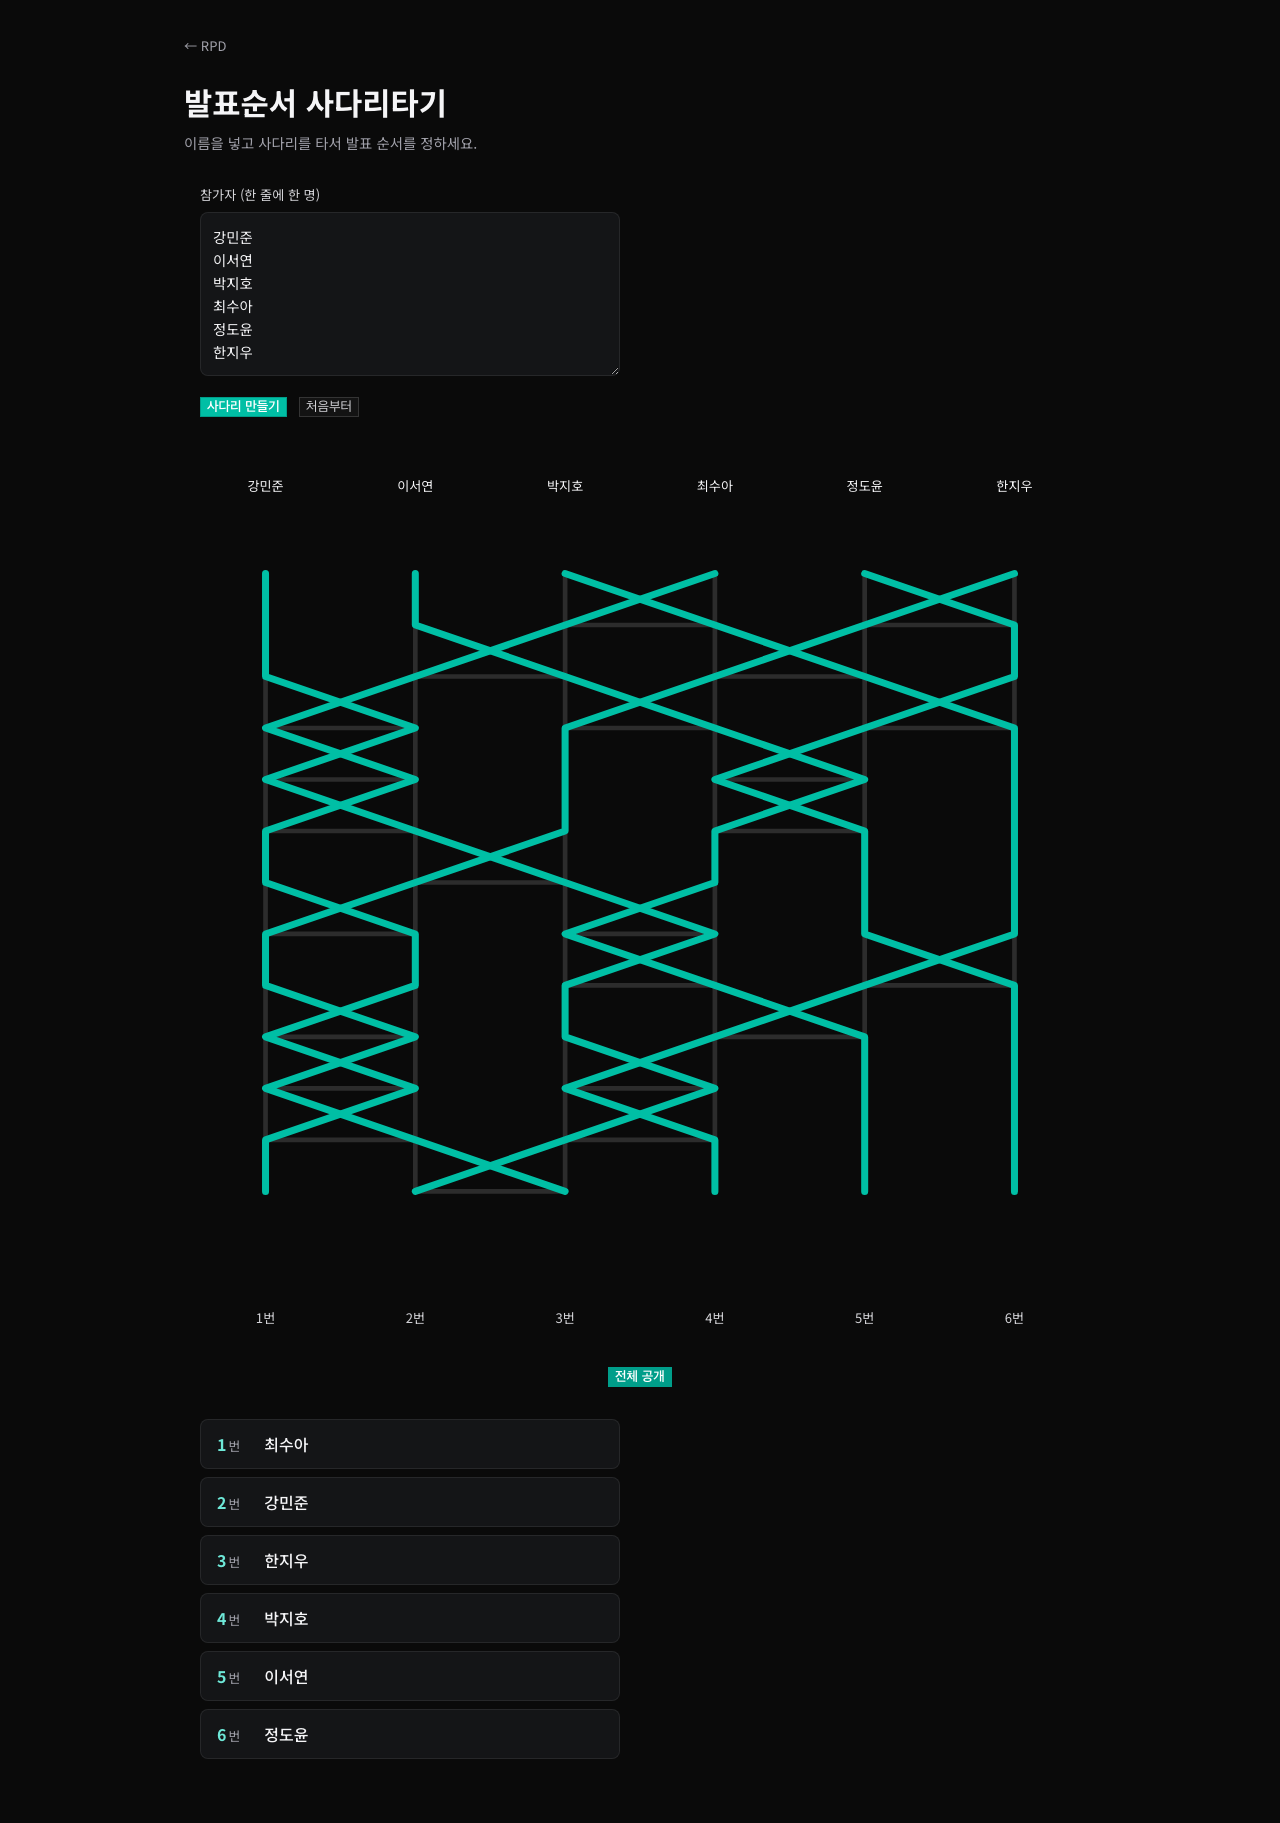
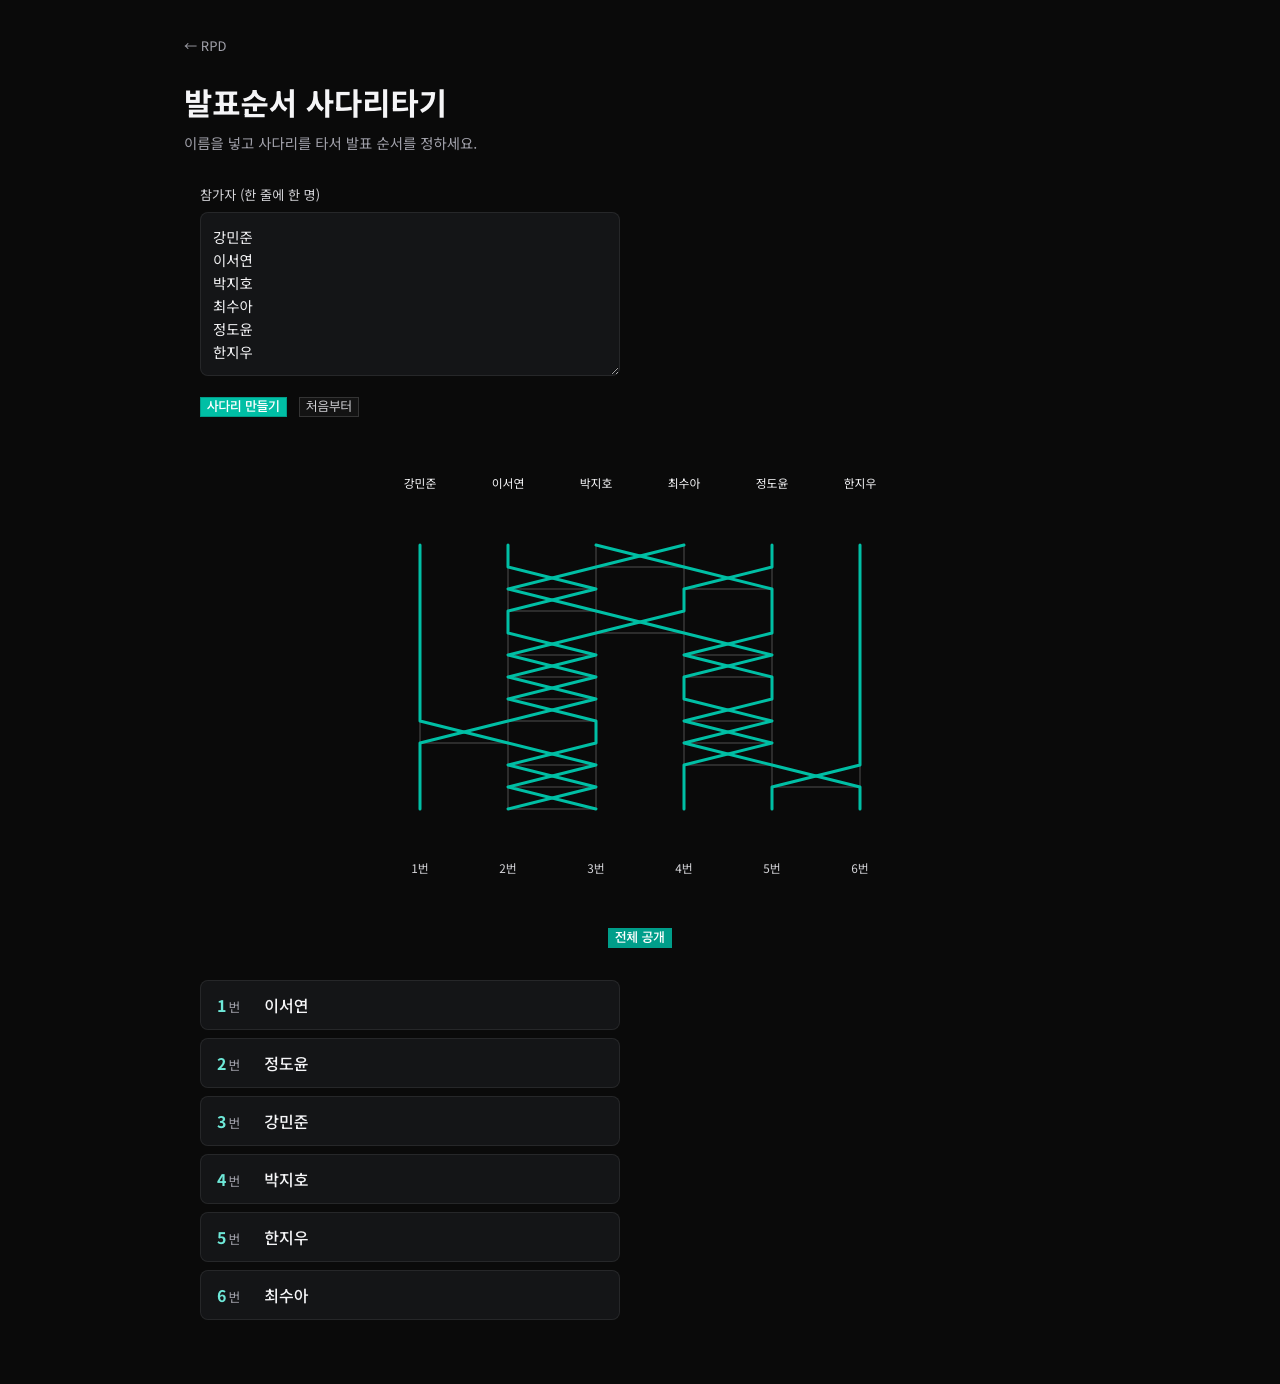
fix: natural-width ladder + h-scroll + 2-line labels + capped rows
대규모/긴이름(학번 포함)에서 라벨 겹침·사다리 비가시 해결.
- SVG를 컨테이너 폭에 맞추지 않고 자연 폭(px)으로 렌더, board는 가로 스크롤
- 라벨 colX 절대위치 유지(정렬 0px), max-width+keep-all로 2줄 허용(데이터 비절단)
- rows 상한(<=24), colGap/padX 확대, is-dense/min-width 제거, full-bleed
- regression test: 25명 라벨 비겹침 + 자연 폭 검증

diff --git a/course-site/assets/page-ladder.css b/course-site/assets/page-ladder.css
@@ -35,17 +35,29 @@
 .ladder-draw { margin-top: var(--sp-6); justify-content: center; }
 .ladder-hint { color: var(--warn); font-size: .8rem; min-height: 1.2em; margin-top: var(--sp-2); }
 
-.ladder-board { margin-top: var(--sp-8); }
+.ladder-board {
+  margin-top: var(--sp-8);
+  overflow-x: auto;
+  /* full-bleed: 사다리는 page max-width(960)를 벗어나 뷰포트 폭 활용 */
+  margin-left: calc(50% - 50vw);
+  margin-right: calc(50% - 50vw);
+  padding: 0 var(--sp-6);
+}
+.ladder-inner { margin: 0 auto; } /* width는 JS가 자연 폭(px)으로 지정 — 좁으면 중앙, 넓으면 스크롤 */
 /* 라벨은 colX() 기준 절대위치 — SVG 줄과 정확히 정렬(flexbox 금지). JS가 style.left=% 지정 */
-.ladder-tops, .ladder-bottoms { position: relative; height: 2.2em; }
+.ladder-tops, .ladder-bottoms { position: relative; min-height: 2.8em; }
 .ladder-name, .ladder-slot {
   position: absolute; transform: translateX(-50%);
-  font-size: .82rem; text-align: center; white-space: nowrap; top: 0;
+  font-size: .74rem; text-align: center; top: 0;
 }
-.ladder-name { color: var(--text); cursor: pointer; padding: var(--sp-1) var(--sp-2); border-radius: var(--radius-sm); }
+.ladder-name {
+  color: var(--text); cursor: pointer; padding: var(--sp-1) var(--sp-2);
+  border-radius: var(--radius-sm);
+  max-width: 76px; white-space: normal; word-break: keep-all; line-height: 1.2;
+}
 .ladder-name:hover { color: var(--key-soft); background: var(--surface); }
 .ladder-name:focus-visible { outline: 2px solid var(--key-border); }
-.ladder-slot { color: var(--muted-strong); font-variant-numeric: tabular-nums; }
+.ladder-slot { color: var(--muted-strong); font-variant-numeric: tabular-nums; white-space: nowrap; }
 
 .ladder-svg { width: 100%; height: auto; display: block; }
 .ladder-col, .ladder-rung { stroke: var(--line-strong); stroke-width: 2; }
@@ -63,12 +75,6 @@
 }
 .result-slot::after { content: '번'; font-weight: 400; color: var(--muted); font-size: .8rem; margin-left: 2px; }
 .result-name { color: var(--text); font-weight: 500; }
-
-/* 대규모 인원 — 가로 스크롤 (라벨·SVG 같은 min-width로 정렬 유지) */
-.ladder-board.is-dense { overflow-x: auto; }
-.ladder-board.is-dense .ladder-svg,
-.ladder-board.is-dense .ladder-tops,
-.ladder-board.is-dense .ladder-bottoms { min-width: 720px; }
 
 @media (max-width: 720px) {
   .ladder-page { padding: var(--sp-6) var(--sp-4) var(--sp-12); }

diff --git a/course-site/assets/ladder.js b/course-site/assets/ladder.js
@@ -17,7 +17,7 @@
 
   // rungs[r] = [i, ...] : row r 에서 col i 와 col i+1 사이 가로줄
   Ladder.generateLadder = function (n, rows) {
-    rows = rows || Math.max(n * 2, 6);
+    rows = rows || Math.min(Math.max(n * 2, 6), 24); // 가로줄 상한 — 과밀/세로 과길이 방지
     var rungs = [];
     for (var r = 0; r < rows; r++) {
       var row = [];
@@ -61,7 +61,7 @@
   /* ── 렌더 / UI ─────────────────────────────────────── */
 
   var NS = 'http://www.w3.org/2000/svg';
-  var GEO = { padX: 28, padY: 28, gapY: 22, colGap: 64 }; // SVG 좌표 상수
+  var GEO = { padX: 44, padY: 28, gapY: 22, colGap: 88 }; // colGap: 라벨 폭 수용 / padX: 끝 라벨 반폭 수용
   var state = null; // { names, ladder, results }
 
   function el(id) { return document.getElementById(id); }
@@ -138,6 +138,12 @@
     board.textContent = '';
     var built = buildLadderSVG(state.ladder);
     var pct = function (c) { return (colX(c) / built.w * 100) + '%'; }; // 라벨↔줄 정렬 핵심
+
+    // 자연 폭 inner — 축소하지 않고, 넘치면 board가 가로 스크롤
+    var inner = document.createElement('div');
+    inner.className = 'ladder-inner';
+    inner.style.width = built.w + 'px';
+
     // 상단 이름 라벨 — colX 기준 절대위치(중앙정렬은 CSS translateX). textContent=XSS 안전
     var top = document.createElement('div'); top.className = 'ladder-tops';
     state.names.forEach(function (name, idx) {
@@ -158,11 +164,12 @@
       b.style.left = pct(k);
       bot.appendChild(b);
     }
-    board.appendChild(top);
-    board.appendChild(built.svg);
-    board.appendChild(bot);
+    inner.appendChild(top);
+    inner.appendChild(built.svg);
+    inner.appendChild(bot);
+
+    board.appendChild(inner);
     board.appendChild(drawControls());
-    board.classList.toggle('is-dense', state.ladder.n > 20); // 대규모 → 가로 스크롤
     board.hidden = false;
   }
 

diff --git a/tests/ladder.spec.js b/tests/ladder.spec.js
@@ -125,3 +125,23 @@ test('large group (24) still bijection via UI', async ({ page }) => {
   const slots = await page.locator('.result-row .result-slot').allInnerTexts();
   expect(new Set(slots).size).toBe(24);
 });
+
+test('25 long names: labels do not overlap, ladder rendered at natural width', async ({ page }) => {
+  await page.goto('/ladder.html');
+  const names = Array.from({ length: 25 }, (_, i) => '학생' + (i + 1) + ' (122424' + String(i + 1).padStart(2, '0') + ')').join('\n');
+  await page.fill('#names', names);
+  await page.click('#buildBtn');
+  const m = await page.evaluate(() => {
+    var nm = document.querySelectorAll('.ladder-name');
+    var overlaps = 0;
+    for (var k = 0; k < nm.length - 1; k++) {
+      var a = nm[k].getBoundingClientRect(), b = nm[k + 1].getBoundingClientRect();
+      if (b.left < a.right - 0.5) overlaps++;
+    }
+    var svg = document.querySelector('.ladder-svg').getBoundingClientRect();
+    return { overlaps: overlaps, svgW: Math.round(svg.width), n: nm.length };
+  });
+  expect(m.n).toBe(25);
+  expect(m.overlaps).toBe(0); // 인접 이름 라벨이 겹치지 않아야
+  expect(m.svgW).toBeGreaterThanOrEqual(25 * 60); // 자연 폭(축소 금지): 최소 줄간격 * N
+});
